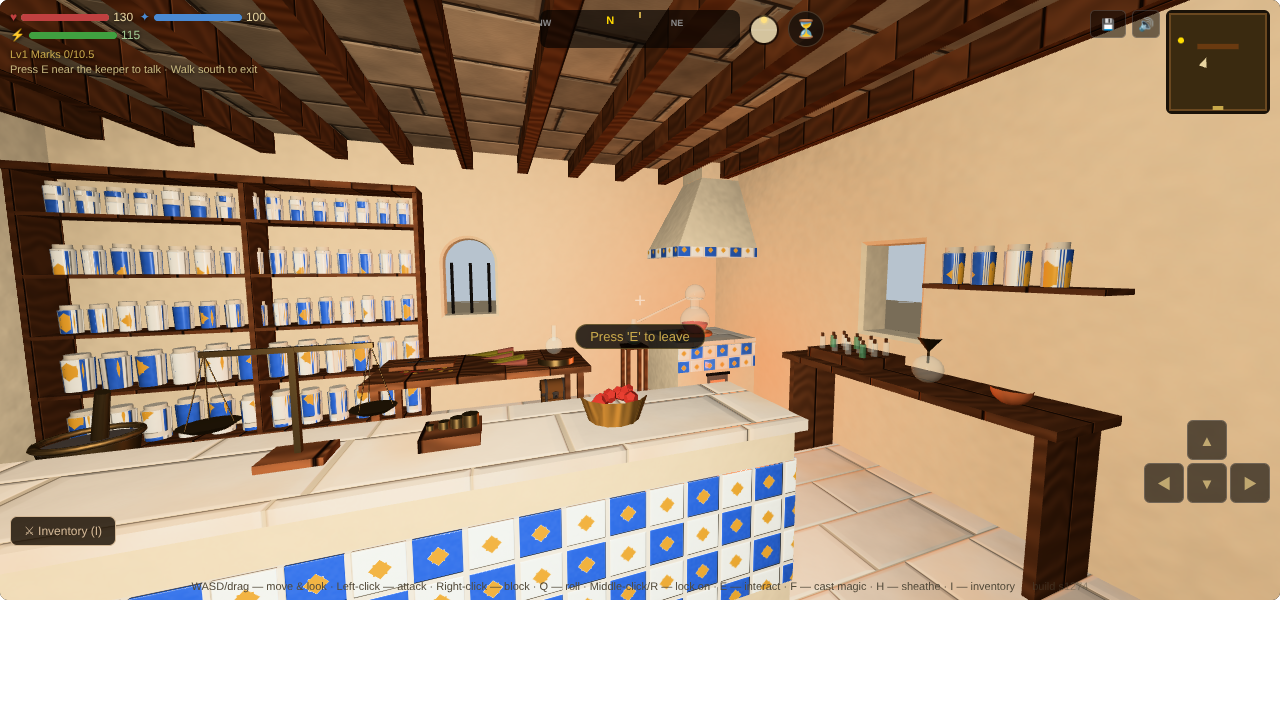
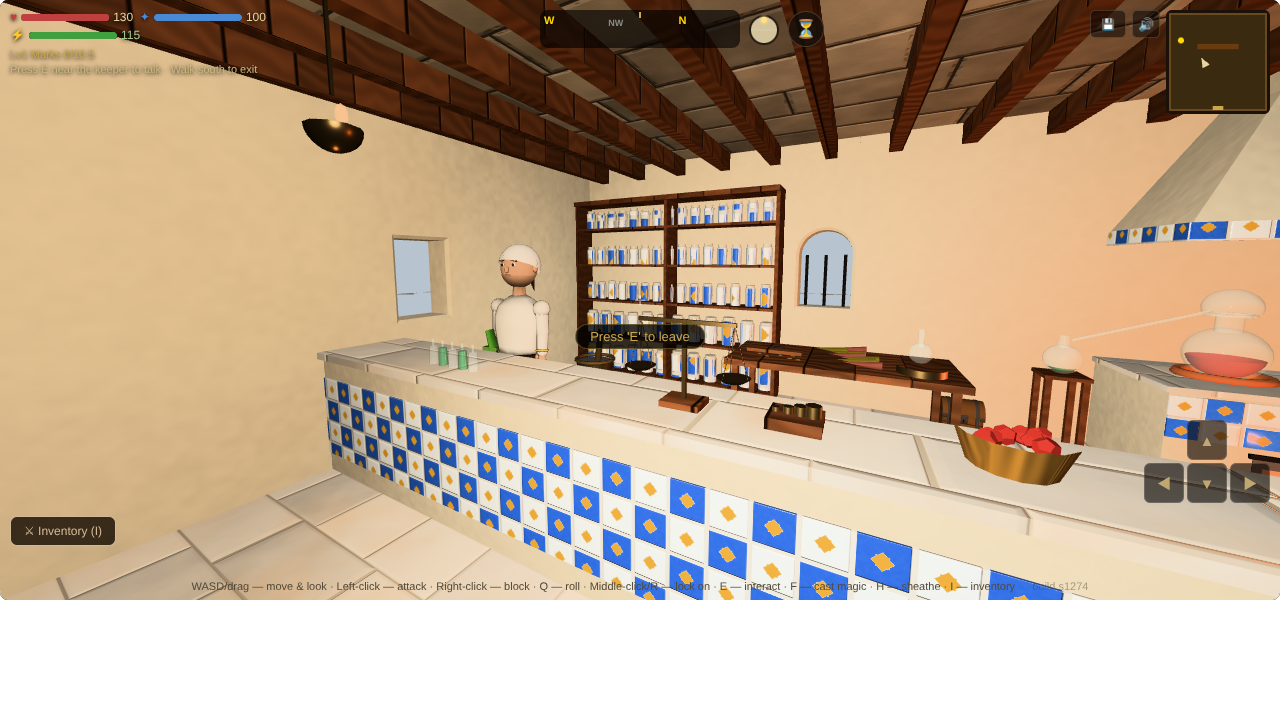
Look: Session 1894 — aurapothecary 14/14; the picture turned to the apothecary
Claude-Session: https://claude.ai/code/session_019eFMMmvMbrb7fQqcwgJwVB

diff --git a/docs/devlog/1894.md b/docs/devlog/1894.md
@@ -44,7 +44,7 @@ It holds:
 ### Verified (headless Chromium)
 - `node tests/run.mjs aurapothecary --no-retry` (new), on `g_c7_1_s4_3`. In the first five Aurennais settlements each has one apothecary,
   and the fifth's fits the kit's house. The first run passed every check but the strongbox's clear floor (above). The run after the fix:
-  RESULT_HERE
+  14 of 14.
   - on the street the Roman house of 7.2 by 6 m with its arcade, 3,736 tris in 14 calls; the still's stack cap 4.61 m over the ground,
     the first thing met from above; it smokes;
   - the room is 6.56 by 5.36 m and 2.78 m to the ceiling, at scale 1, walled below the sills all round but the door; the ceiling 2.98 m
@@ -55,8 +55,8 @@ It holds:
   - E at the door takes you out; no page errors.
 - OTHERS_HERE
 - `python3 scripts/parsecheck.py`: clean; `node --check` on the suite.
-- Picture: `docs/prototypes/kit-aurapothecary-room.png`, from inside the door: the wall of albarelli, the scales on the counter, the hood
-  over the furnace, the apothecary by the jars.
+- Picture: `docs/prototypes/kit-aurapothecary-room.png`, from inside the door: the wall of albarelli, the apothecary at the counter's end, the
+  scales and the dried rose on the marble, the alembic's red cucurbit on the furnace at the right.
 
 ### Needs eyes
 - The room's 20.6k triangles are the most of the three apothecaries (the Mark's 13.0k): most of them are the albarelli, five shelves of
